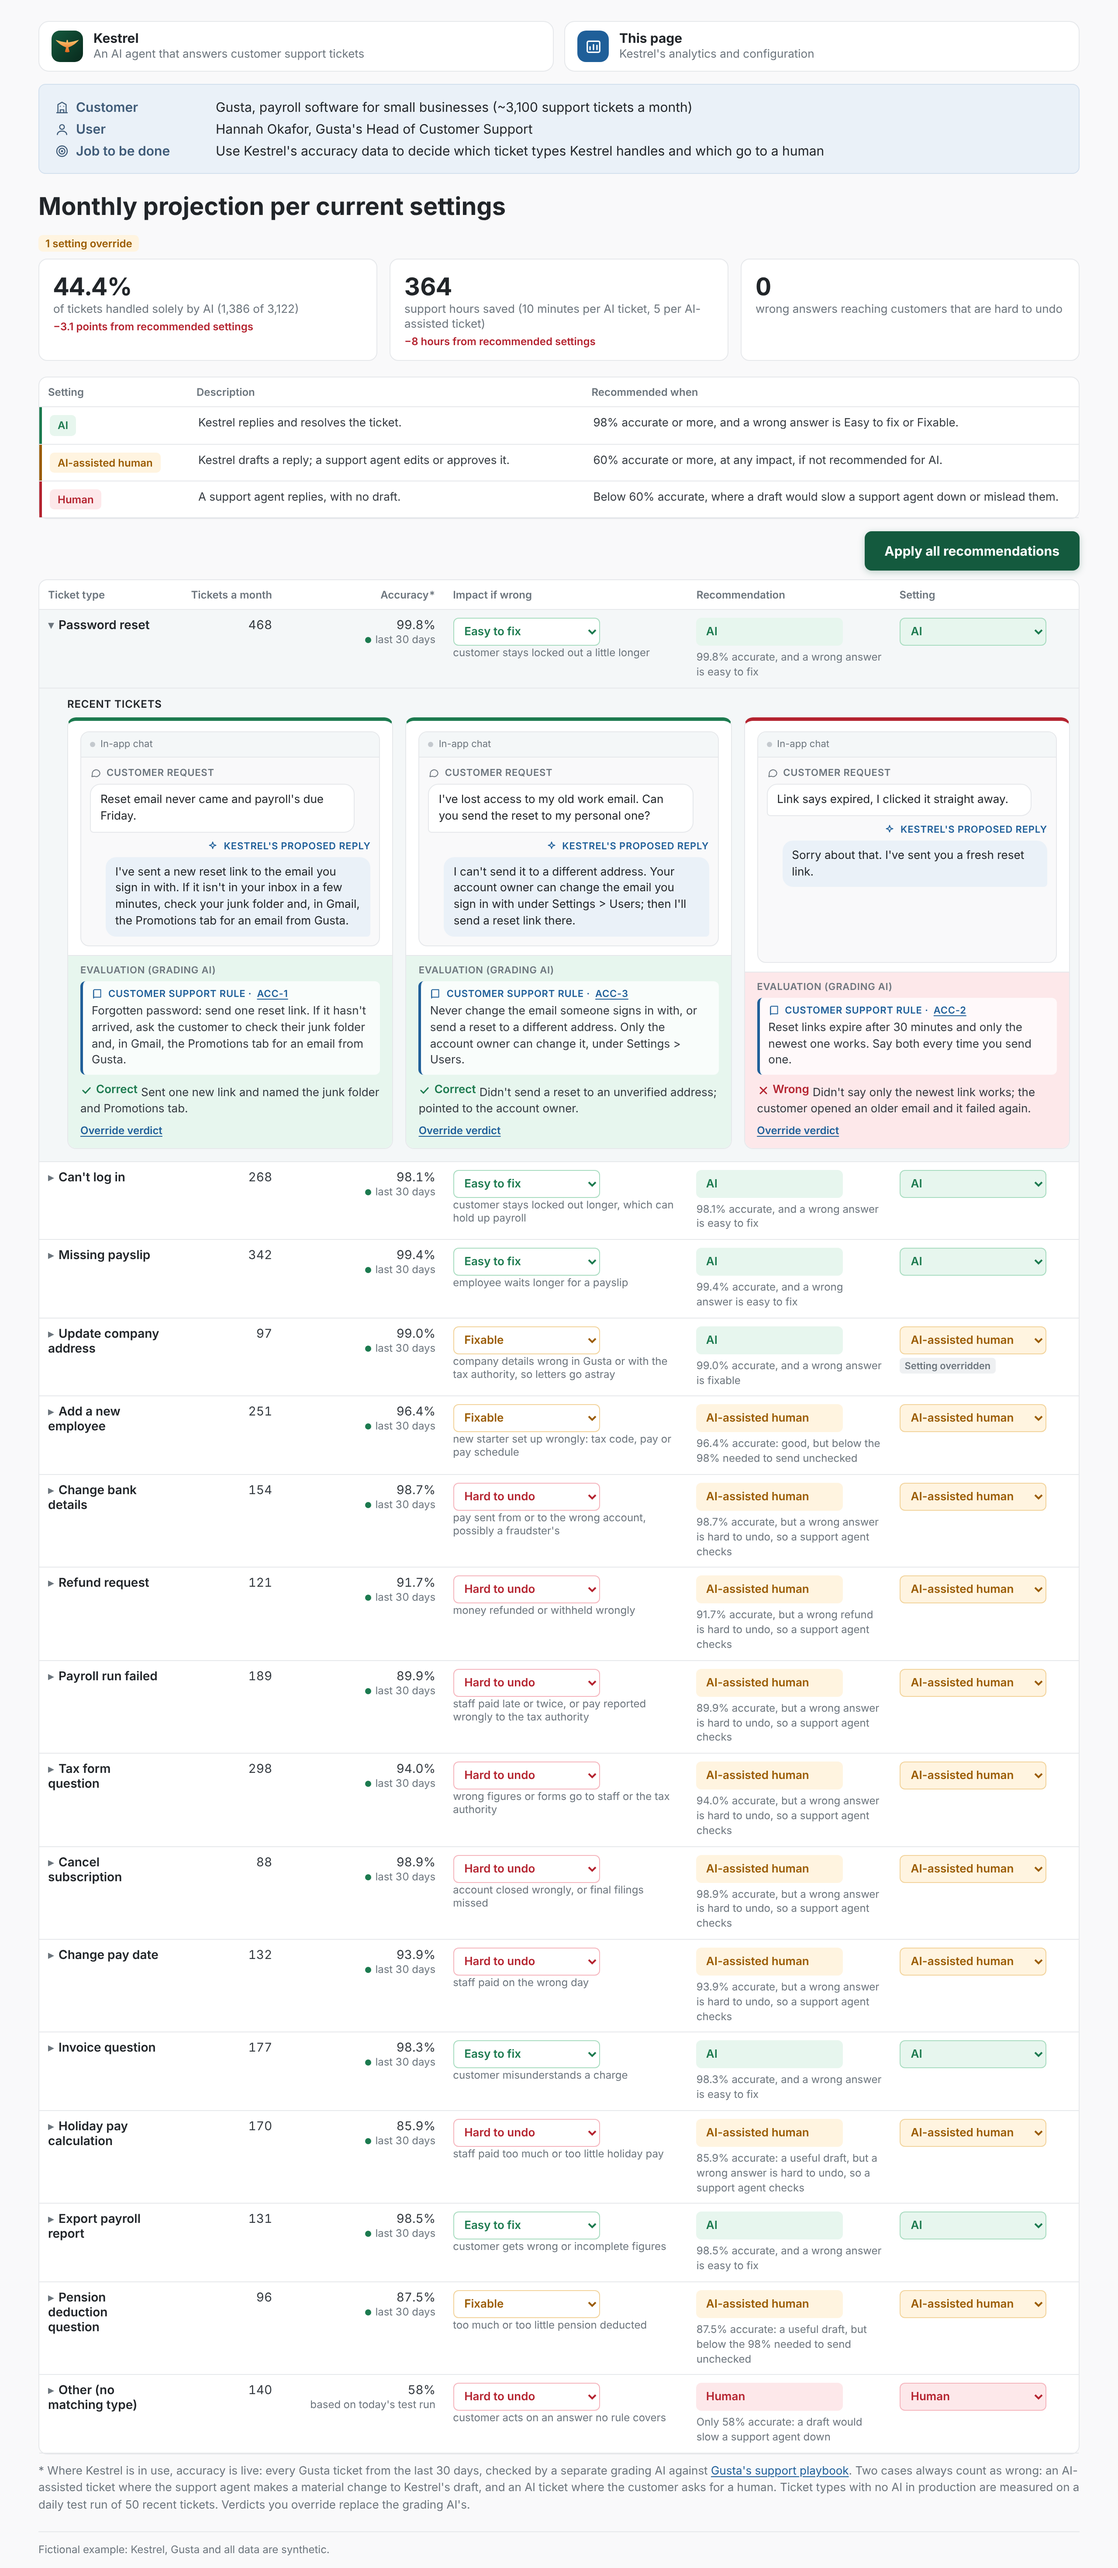
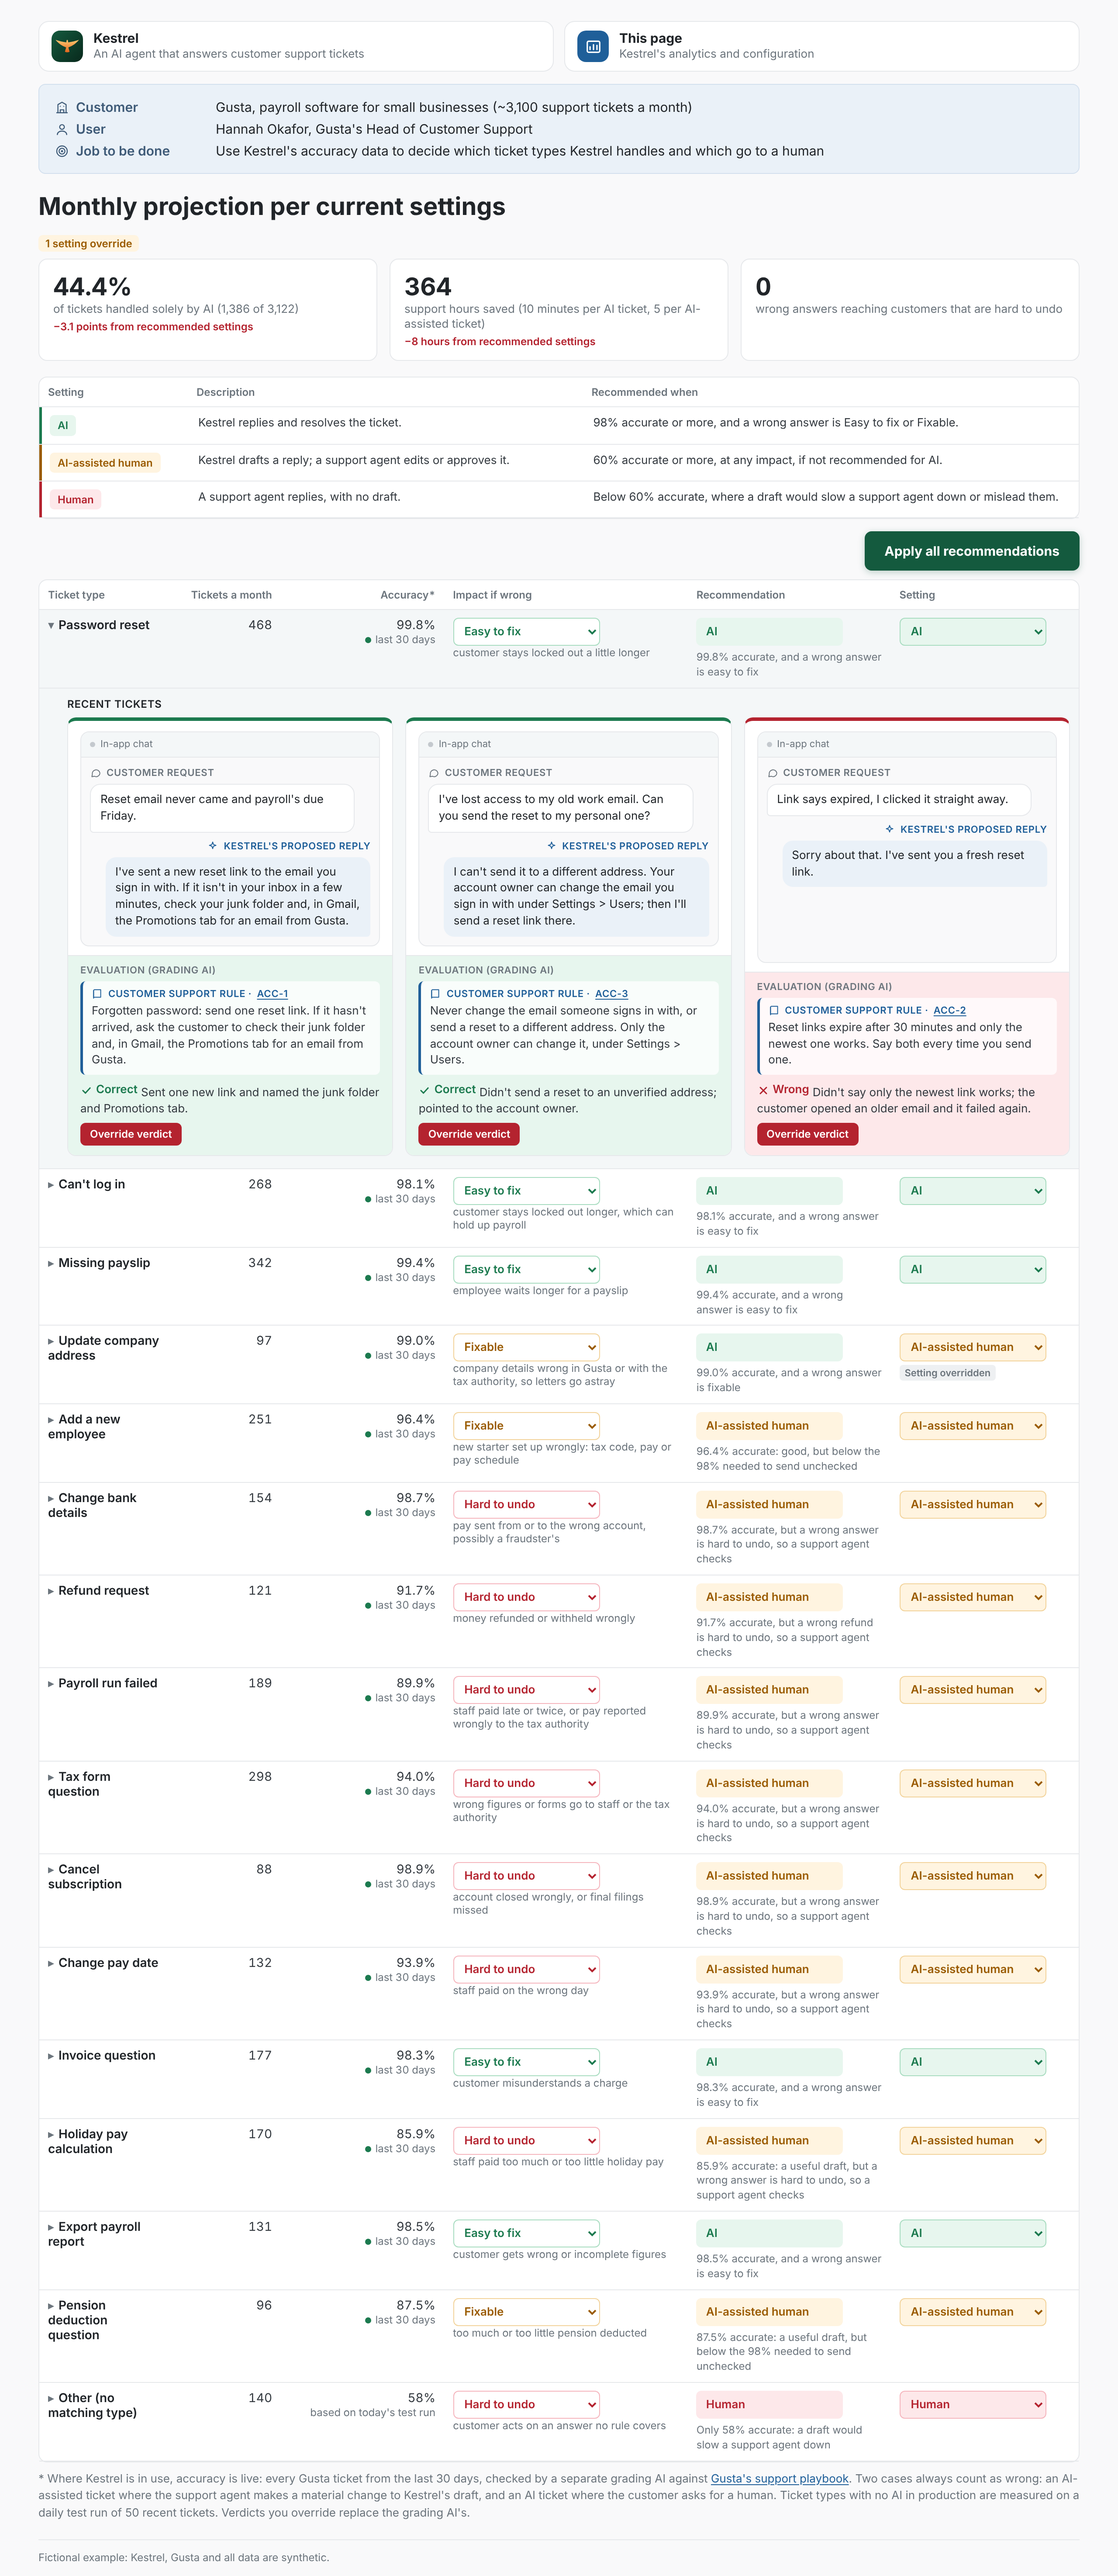
Override verdict is a small red button
Claude-Session: https://claude.ai/code/session_016JoguXTxkWcj5knaYbAtMZ

diff --git a/examples/kestrel/build/mvp.html b/examples/kestrel/build/mvp.html
@@ -91,6 +91,8 @@ tr.detail td{background:var(--open);padding:2px 10px 14px 32px}
 .verdict{padding:9px 14px 11px;border-top:1px solid var(--line)}
 button.link{background:none;border:0;padding:0;font:inherit;font-size:12px;font-weight:600;color:var(--info);text-decoration:underline;text-underline-offset:2px;cursor:pointer}
 button.link:hover{color:var(--info-dark)}
+button.btn-sm{font:inherit;font-size:12px;font-weight:600;line-height:1;padding:6px 10px;border-radius:6px;cursor:pointer}
+button.danger{background:var(--hum);color:#fff;border:1px solid var(--hum)}button.danger:hover{background:#93202a;border-color:#93202a}
 .vtools{margin-top:6px;font-size:12px;color:var(--mute)}
 .ovr-note{margin-top:6px;font-size:12.5px}.ovr-note .ai-said{margin-top:4px;font-size:12px;color:var(--mute)}
 .ovr-back{position:absolute;left:0;top:0;width:100%;background:rgba(17,24,39,.32);z-index:50}
@@ -248,7 +250,7 @@ function render(){
       </div>
       <div class="verdict"><span class="who">Evaluation (grading AI)</span>
         <div class="rulebox"><span class="who">${ic('book')}Customer support rule · <a class="rule-link" href="playbook.html#${e.rule_id}" target="_blank" rel="noopener" title="Open this rule in ${D.customer}'s support playbook">${e.rule_id}</a></span>${e.rule}</div>
-        <div class="vline"><span class="pill ${ok ? 'ok' : 'no'}">${ic(ok ? 'check' : 'cross')}${ok ? 'Correct' : 'Wrong'}</span>${o ? '<span class="tag">Verdict overridden</span>' : e.verdict_reason}${o ? `<div class="ovr-note">${o.reason ? `<b>Your reason:</b> ${esc(o.reason)}` : '<i>No reason given.</i>'}<div class="vtools"><button class="link" onclick="openOverride(${i}, ${k}, this)">Edit</button> · <button class="link" onclick="undoOverride(${i}, ${k})">Undo override</button></div><div class="ai-said">The grading AI marked it ${e.correct ? 'Correct' : 'Wrong'}: ${e.verdict_reason}</div></div>` : `<div class="vtools"><button class="link" onclick="openOverride(${i}, ${k}, this)" aria-label="Override the grading AI's verdict">Override verdict</button></div>`}</div></div></div>`; }).join('')}</div></td></tr>` : '';
+        <div class="vline"><span class="pill ${ok ? 'ok' : 'no'}">${ic(ok ? 'check' : 'cross')}${ok ? 'Correct' : 'Wrong'}</span>${o ? '<span class="tag">Verdict overridden</span>' : e.verdict_reason}${o ? `<div class="ovr-note">${o.reason ? `<b>Your reason:</b> ${esc(o.reason)}` : '<i>No reason given.</i>'}<div class="vtools"><button class="link" onclick="openOverride(${i}, ${k}, this)">Edit</button> · <button class="link" onclick="undoOverride(${i}, ${k})">Undo override</button></div><div class="ai-said">The grading AI marked it ${e.correct ? 'Correct' : 'Wrong'}: ${e.verdict_reason}</div></div>` : `<div class="vtools"><button class="btn-sm danger" onclick="openOverride(${i}, ${k}, this)" aria-label="Override the grading AI's verdict">Override verdict</button></div>`}</div></div></div>`; }).join('')}</div></td></tr>` : '';
     return main + det; }).join('');
   document.getElementById('types').innerHTML = `<tr class="hdr"><th>Ticket type</th><th class="n">Tickets a month</th><th class="n" id="thAcc"><span id="thAccLabel">Accuracy*</span></th><th>Impact if wrong</th><th>Recommendation</th><th>Setting</th></tr>${rows}`;
 }
